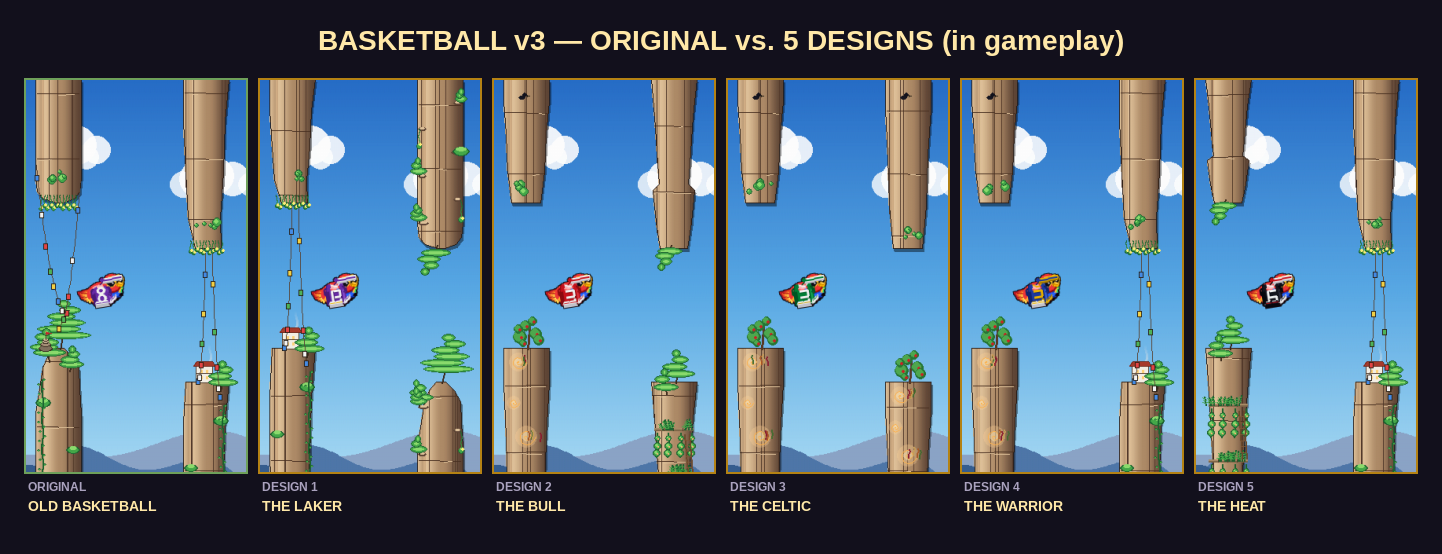
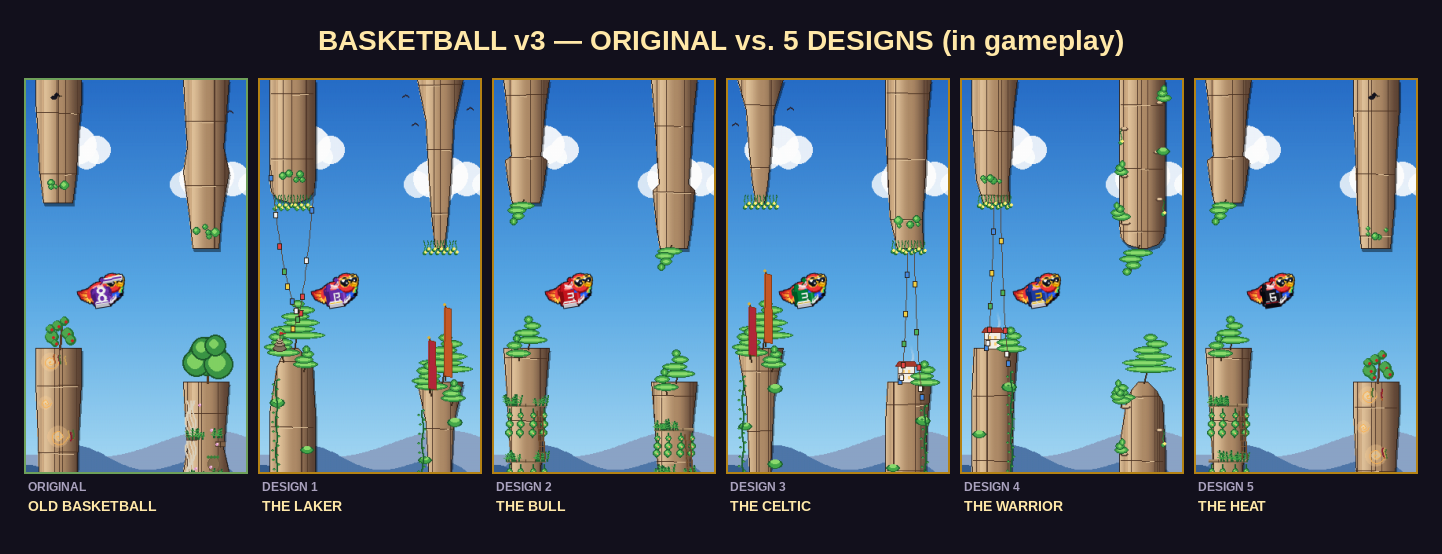
basketball v4: restore face overlay + shrink jersey number
Face backup/restore ensures parrot head always sits in front of the
jersey. Number scaled down to 0.7 for a proportionate chest graphic.

diff --git a/tools/basketball_candidates/_shared.py b/tools/basketball_candidates/_shared.py
@@ -1,26 +1,33 @@
 """Shared draw logic for basketball v4 kit — polygon-over-parrot approach.
 
 The natural parrot plumage shows through the armhole areas; no body recolor.
-The jersey is drawn as a polygon panel on top of the base parrot sprite,
-matching real NBA tank anatomy: two narrow straps flanking a deep neckline gap,
-a deep U-shaped armhole scoop, and a full-width chest panel below the underarm.
+The jersey is drawn as a polygon panel on top of the base parrot sprite.
+The parrot's face is saved before any drawing and restored at the very end
+so the head always sits in front of the jersey.
 """
 import pygame
 
 
 def draw_basketball_kit(
     surf, BCX, BCY, HX, HY, CROWN_Y, poly_fn,
-    jersey, jersey_d, jersey_h,  # jersey fill / dark-edge / highlight
-    trim, trim_d,                 # trim accent (white or gold)
-    num_col, num_d, number,       # jersey number colour / shadow / digit
-    shoe, shoe_d, shoe_ac,        # shoe main / sole-shadow / accent stripe
-    band_accent=None,             # headband midline + knot colour; defaults to jersey
+    jersey, jersey_d, jersey_h,
+    trim, trim_d,
+    num_col, num_d, number,
+    shoe, shoe_d, shoe_ac,
+    band_accent=None,
 ):
     """Draw full basketball kit over the natural parrot sprite."""
     bm = band_accent if band_accent is not None else jersey
 
+    # --- Save parrot face BEFORE drawing anything ----------------------------
+    face_x = HX - 9                               # = 38
+    face_y = CROWN_Y - 1                          # = 30
+    face_w = min(surf.get_width() - face_x, 28)
+    face_h = HY + 12 - face_y                     # = 23
+    face_rect = pygame.Rect(face_x, face_y, face_w, face_h)
+    face_backup = surf.subsurface(face_rect).copy()
+
     # --- CHEST PANEL (below the underarm line, full width) -------------------
-    # Runs from BCY-4 to BCY+14, covering the lower two-thirds of the body oval.
     poly_fn(surf, jersey, [
         (BCX-13, BCY-4),  (BCX+13, BCY-4),
         (BCX+12, BCY+14), (BCX-12, BCY+14),
@@ -91,15 +98,18 @@ def draw_basketball_kit(
         pygame.draw.line(surf, shoe_d,  (fx-4, HY+27), (fx+5, HY+27), 2)
         pygame.draw.line(surf, trim,    (fx-3, HY+21), (fx+1, HY+21), 1)
 
+    # --- Restore parrot face on top of all jersey elements -------------------
+    surf.blit(face_backup, face_rect.topleft)
+
 
 def _draw_number(surf, BCX, BCY, number, col, shadow):
     """Render a 1- or 2-digit block number centred on (BCX, BCY)."""
     digits = number.strip()
     if len(digits) == 1:
-        _draw_digit(surf, BCX, BCY, digits[0], col, shadow, scale=1.0)
+        _draw_digit(surf, BCX, BCY, digits[0], col, shadow, scale=0.7)
     elif len(digits) == 2:
-        _draw_digit(surf, BCX-5, BCY, digits[0], col, shadow, scale=0.85)
-        _draw_digit(surf, BCX+5, BCY, digits[1], col, shadow, scale=0.85)
+        _draw_digit(surf, BCX-4, BCY, digits[0], col, shadow, scale=0.65)
+        _draw_digit(surf, BCX+4, BCY, digits[1], col, shadow, scale=0.65)
 
 
 def _draw_digit(surf, cx, cy, d, col, shad, scale=1.0):
